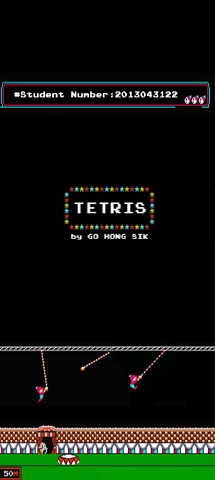
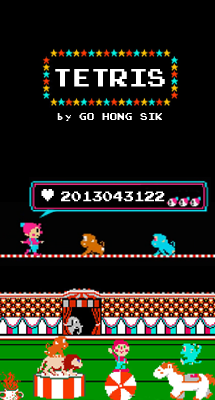
Finish!

diff --git a/tetris.py b/tetris.py
@@ -23,22 +23,26 @@ MUTE = 0
 WHITE = (255,255,255)
 GRAY = (185,185,185)
 BLACK = (0,0,0)
-COLOR1 = (246,143,160)
-LIGHTCOLOR1 = (255,163,180)
-COLOR2 = (160,158,214)
-LIGHTCOLOR2 = (180,178,234)
-COLOR3 = (178,162,150)
-LIGHTCOLOR3 = (198,182,170)
-COLOR4 = (149,212,122)
-LIGHTCOLOR4 = (169,232,142)
-COL = (82,204,206)
+PINK = (249,32,142)
+LIGHTPINK = (255,52,162)
+ORANGE = (251,86,49)
+LIGHTORANGE = (255,106,69)
+YELLOW = (254,189,6)
+LIGHTYELLOW = (255,209,26)
+YELLOWISH_GREEN= (113,189,49)
+LIGHTYELLOWIS_GREEN = (189,252,162)
+VIOLET = (143,52,183)
+LIGHTVIOLET = (163,72,203)
+SEMI_GRAY = (157,157,157)
+LIGHTSEMI_GRAY = (177,177,177)
+B_COLOR = (10,226,213)
 
-BORDERCOLOR = COL
+BORDERCOLOR = B_COLOR
 BGCOLOR = BLACK
 TEXTCOLOR = WHITE
 TEXTSHADOWCOLOR=GRAY
-COLORS=(COLOR1,COLOR2,COLOR3,COLOR4)
-LIGHTCOLORS=(LIGHTCOLOR1,LIGHTCOLOR2,LIGHTCOLOR3,LIGHTCOLOR4)
+COLORS=(PINK,ORANGE,YELLOW,YELLOWISH_GREEN,VIOLET,SEMI_GRAY)
+LIGHTCOLORS=(LIGHTPINK,LIGHTORANGE,LIGHTYELLOW,LIGHTYELLOWIS_GREEN,LIGHTVIOLET,LIGHTSEMI_GRAY)
 assert len(COLORS) == len(LIGHTCOLORS) # each color must have light color
 
 TEMPLATEWIDTH = 5
@@ -159,11 +163,11 @@ def main():
     pygame.init()
     FPSCLOCK = pygame.time.Clock()
     DISPLAYSURF = pygame.display.set_mode((WINDOWWIDTH,WINDOWHEIGHT))
-    BASICFONT = pygame.font.SysFont('Helvetica Extended Heavy.ttf', 18)
-    BIGFONT = pygame.font.SysFont('Helvetica Rounded Condensed Bold Oblique.ttf', 100)
+    BASICFONT = pygame.font.SysFont('PrStart.ttf', 18)
+    BIGFONT = pygame.font.SysFont('PrStart.ttf', 100)
     pygame.display.set_caption('TETRIS')
 
-    showTextScreen("Let's go Tetris!")
+    showTextScreen(" ")
     while True: # game loop
         if random.randint(0,1) == 0:
             pygame.mixer.music.load('videogames1.mp3')
@@ -173,7 +177,10 @@ def main():
         pygame.time.delay(100)
         runGame()
         pygame.mixer.music.stop()
+        ending = pygame.image.load('start_ending.png')
+        DISPLAYSURF.blit(ending, (0, 0))
         showTextScreen('THE END')
+
 
 def runGame():
     global MUTE
@@ -210,21 +217,22 @@ def runGame():
                 if (event.key == K_p):
                     # Pausing the game
 
-                    DISPLAYSURF.fill(BGCOLOR)
+                    pause_display = pygame.image.load('CHANGE.png')
+                    DISPLAYSURF.blit(pause_display, (0, 0))
                     pygame.mixer.music.stop()
                     pygame.mixer.music.load('cheer_up.mp3')
                     pygame.mixer.music.play(-1, 0.0)
-                    showTextScreen('Cheer up!') # pause until a key press
+                    showTextScreen('pause') # pause until a key press
                     pygame.time.delay(100)
                     lastFallTime = time.time()
                     lastMoveDownTime = time.time()
                     lastMoveSidewaysTime = time.time()
                 # stopping left, right, and down movement when releasing button
-                elif (event.key == K_LEFT):
+                elif (event.key == K_LEFT or event.key == K_a):
                     movingLeft = False
-                elif (event.key == K_RIGHT):
+                elif (event.key == K_RIGHT or event.key == K_d):
                     movingRight = False
-                elif (event.key == K_DOWN):
+                elif (event.key == K_DOWN or event.key == K_s):
                     movingDown = False
                 elif (event.key == K_m):
                     if(MUTE == 0):
@@ -247,7 +255,7 @@ def runGame():
                     lastMoveSidewaysTime = time.time()
 
                 # rotating block (if there is room to rotate)
-                elif (event.key == K_UP):
+                elif (event.key == K_UP or event.key == K_w):
                     # moves to next value in rotation index (% part rolls over value to zero if it exceeds total number of possible rotations)
                     # e.g. 3%4 = 3, 4%4 = 0, 5%4 = 1. Remember, 4 rotations are counted 0-3 because COMPUTERS!
                     fallingPiece['rotation'] = (fallingPiece['rotation'] + 1) % len(PIECES[fallingPiece['shape']])
@@ -317,10 +325,10 @@ def runGame():
         drawBoard(board)
         drawStatus(score, level, output_string)
         drawNextPiece(nextPiece)
-        img1 = pygame.image.load('left_side.png')
-        img2 = pygame.image.load('right_side.png')
-        DISPLAYSURF.blit(img1, (0, 0))
-        DISPLAYSURF.blit(img2, (428, 280))
+        left_side = pygame.image.load('left_side.png')
+        right_side = pygame.image.load('right_side.png')
+        DISPLAYSURF.blit(left_side, (0, 0))
+        DISPLAYSURF.blit(right_side, (428, 280))
         if fallingPiece != None:
             drawPiece(fallingPiece)
 
@@ -351,22 +359,41 @@ def checkForKeyPress():
 def showTextScreen(text):
     # This function displays large text in the
     # center of the screen until a key is pressed.
+    if(text == 'pause'):
+        # Draw the text drop shadow
+        titleSurf, titleRect = makeTextObjs(text, BIGFONT, TEXTSHADOWCOLOR)
+        titleRect.center = (int(WINDOWWIDTH / 2), int(WINDOWHEIGHT / 2)-52)
+        DISPLAYSURF.blit(titleSurf, titleRect)
+        # Draw the text
+        titleSurf, titleRect = makeTextObjs(text, BIGFONT, TEXTCOLOR)
+        titleRect.center = (int(WINDOWWIDTH / 2) - 3, int(WINDOWHEIGHT / 2) - 55)
+        DISPLAYSURF.blit(titleSurf, titleRect)
+    else:
+        titleSurf, titleRect = makeTextObjs(text, BIGFONT, TEXTSHADOWCOLOR)
+        titleRect.center = (int(WINDOWWIDTH/2), int(WINDOWHEIGHT/2))
+        DISPLAYSURF.blit(titleSurf, titleRect)
 
-    # Draw the text drop shadow
-    titleSurf, titleRect = makeTextObjs(text, BIGFONT, TEXTSHADOWCOLOR)
-    titleRect.center = (int(WINDOWWIDTH/2), int(WINDOWHEIGHT/2))
-    DISPLAYSURF.blit(titleSurf, titleRect)
 
-    # Draw the text
-    titleSurf, titleRect = makeTextObjs(text, BIGFONT, TEXTCOLOR)
-    titleRect.center = (int(WINDOWWIDTH/2) - 3, int(WINDOWHEIGHT/2) - 3)
-    DISPLAYSURF.blit(titleSurf, titleRect)
+        titleSurf, titleRect = makeTextObjs(text, BIGFONT, TEXTCOLOR)
+        titleRect.center = (int(WINDOWWIDTH/2) - 3, int(WINDOWHEIGHT/2) - 3)
+        DISPLAYSURF.blit(titleSurf, titleRect)
 
-    # Draw the additional "Press a key to play." text.
-    pressKeySurf, pressKeyRect = makeTextObjs('Press any key to ROCK!', BASICFONT, TEXTCOLOR)
-    pressKeyRect.center = (int(WINDOWWIDTH/2), int(WINDOWHEIGHT/2) + 100)
-    DISPLAYSURF.blit(pressKeySurf, pressKeyRect)
-
+    if(text == ' '):
+        initial_diplay = pygame.image.load('start_ending.png')
+        DISPLAYSURF.blit(initial_diplay, (0, 0))
+        # Draw the additional "Press a key to play." text.
+        pressKeySurf, pressKeyRect = makeTextObjs(' ', BASICFONT, TEXTCOLOR)
+        pressKeyRect.center = (int(WINDOWWIDTH/2), int(WINDOWHEIGHT/2) + 100)
+        DISPLAYSURF.blit(pressKeySurf, pressKeyRect)
+    elif(text == 'THE END'):
+        pressKeySurf, pressKeyRect = makeTextObjs('Do you want to play again? Press any key to ROCK!', BASICFONT, TEXTCOLOR)
+        pressKeyRect.center = (int(WINDOWWIDTH / 2), int(WINDOWHEIGHT / 2) + 100)
+        DISPLAYSURF.blit(pressKeySurf, pressKeyRect)
+    else:
+        pressKeySurf, pressKeyRect = makeTextObjs('Press any key to ROCK!', BASICFONT,
+                                                  TEXTCOLOR)
+        pressKeyRect.center = (int(WINDOWWIDTH / 2), int(WINDOWHEIGHT / 2) + 100)
+        DISPLAYSURF.blit(pressKeySurf, pressKeyRect)
     while checkForKeyPress() == None:
         pygame.display.update()
         FPSCLOCK.tick()

diff --git a/README.md b/README.md
@@ -1,9 +1,65 @@
-# Tetris
-# 컴퓨터 공학과
-# 2013043122
-# 고홍식
-# Tetris using pygame (5/16)
-## CMD로 해당 디렉토리에 들어가셔서 python tetris.py 입력하시면 됩니다.
-## 1. 블럭 랜덤 생성
-## 2. 블럭 쌓기
-## 3. 라인 하나당 모두 채워지면 해당 라인 삭제 및 윗 라인이 아래로 내려감
+#참고 소스 : tetrimino.py
+
+#한양대학교 ERICA 컴퓨터공학과
+
+#2013043122 고홍식
+
+##  1. 프로젝트에 대한 소개
+
+###   -기본 구현이 가능한 테트리스 소스를 받은다음에 코드의 작동원리를 이해함
+
+###   -이해한 코드를 바탕으로 배경화면을 바꾸거나 음악을 설정하고 기능을 추가함
+
+##  2. 기능 설정
+
+###   -기본적인 기능(라인 클리어 및 레벨업, 그에 따른 블록 하강 속도 제어)
+
+###     * 라인 클리어를 하면 그 라인의 수 만큼 score에 저장이 된다.
+
+###     * 기본 속도는 -0.27로 하면 레벨 업 당 0.02씩 빨라진다.
+
+###       (sorece
+
+###         def calculateLevelAndFallFreq(score):
+
+###           level = int(score / 10) + 1
+
+###           fallFreq = 0.27 - (level * 0.02)
+
+###           return level, fallFreq)
+
+###     -추가적인 기능
+
+###       * 키 버튼을 누룰 시 액션 추가
+
+###     -'p'버튼을 누르게 되면 게임이 일시정지가 되고 힘이 날 수 있는 곡으로 바뀌어 재생한다.
+
+###     -'m'버튼을 누르게 되면 음소거(mute)기능이 설정이 되어 배경음악이 일시정지가 되고 다시 누르게 되면 음악이 재생된다.
+
+###       * 고전게임에 맞게 '서커스 찰스'라는 게임의 사진을 편집하여 배경및 다양한 상황에 사진을 사용
+
+###       * 배경음악 설정
+
+###       * font 및 블럭 컬러 설정
+
+###     -font는 배경에 어울리만한 것으로 PrStart체를 준비
+
+###     -블럭컬러는 포토샵에서 밝은 색상의 성분을 찍어서 총 6가지 색상으로 구성
+
+###     -기획했던 기능
+
+###     *영상을 연동해서 특정한 키를 누르게 되면 영상을 실행하려함
+
+###     -moivepy라는 라이브러리를 인스톨하고 구글링을 해봐도 계속 에러가 생김
+
+###   3. 게임의 조작 밑 메뉴얼
+
+###     ㄱ. 초기화면에 아무키를 누르게 되면 배경음악이 재생되면서 게임을 시작하게 된다.
+
+###      ㄴ. 조작키는 (방향키 or w,a,s,d) + 스페이스 + p + m + ESC등이 있다.
+
+###      ㄷ. 방향키나 w,a,s,d키 같은 경우에는 현재 내려오는 블럭을 컨트롤 할 수 있는 키 이다.
+
+###         (왼쪽, 오른쪽, 아랫쪽 -> 블럭의 이동을 관여한다.
+
+###         윗쪽 -> 블럭의 모양을 바꾼다. / p -> 일시정지 / m -> 음소거)
